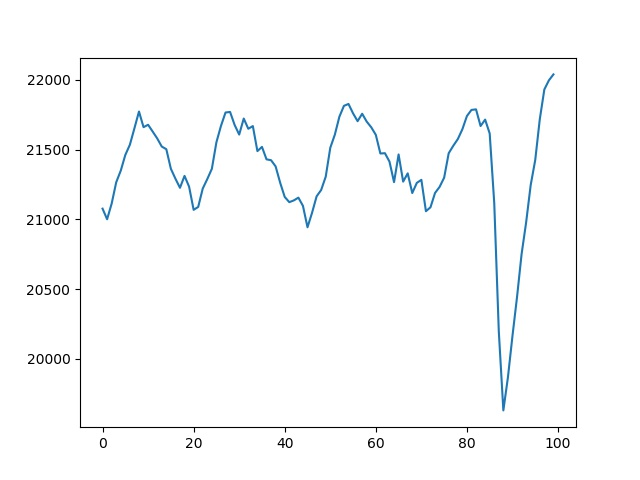
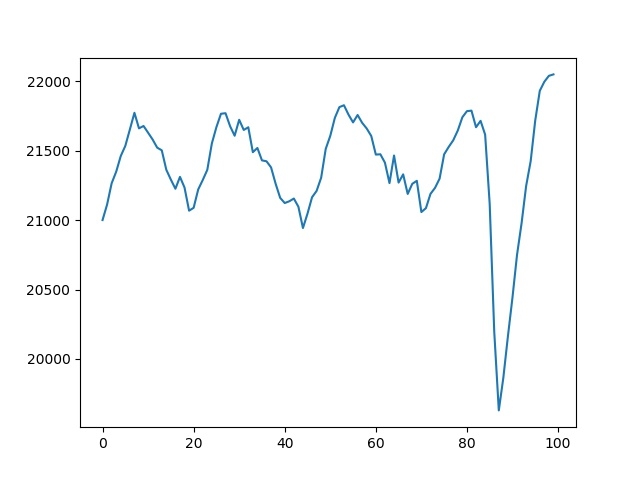
'auto'

diff --git a/README.md b/README.md
@@ -1,5 +1,5 @@
 Frizider live: 4
-22039.55 
+22049.74166666667 
 0
 Temperatura:
 
